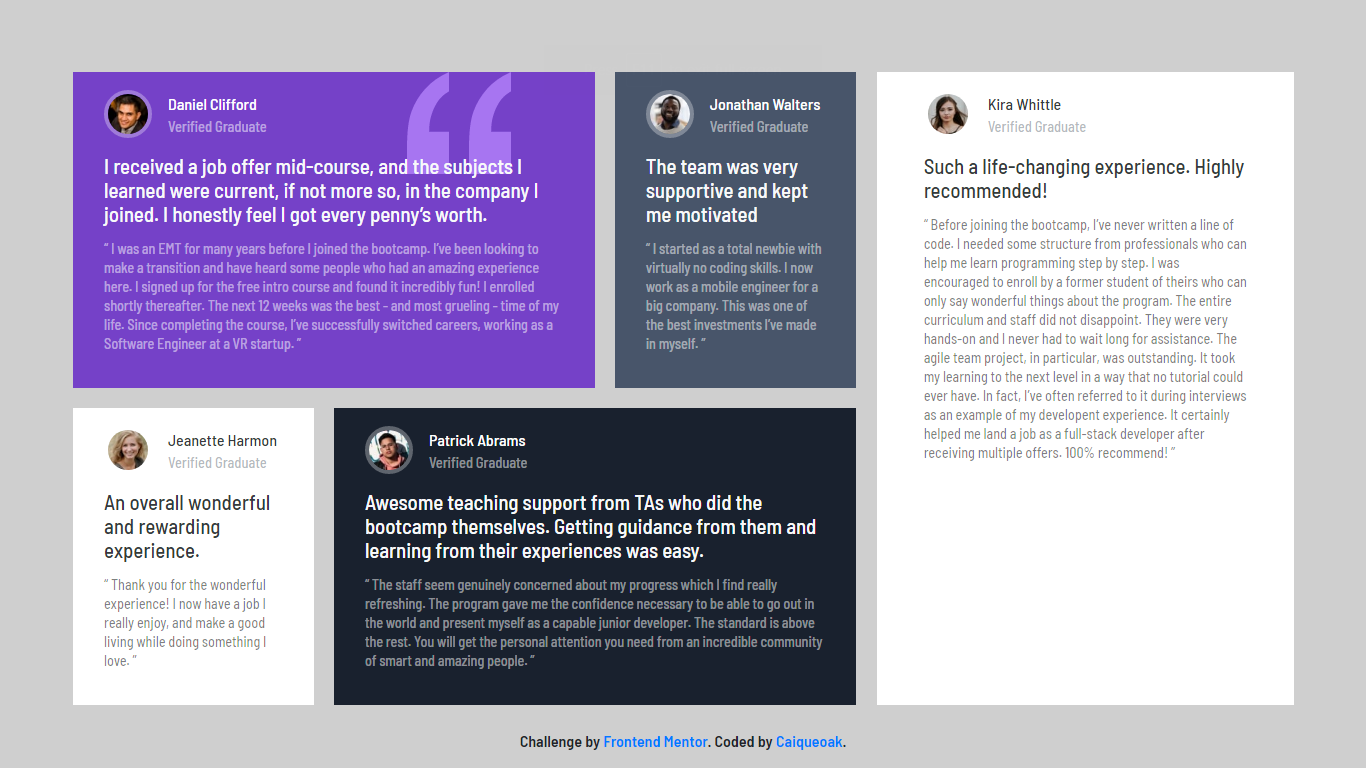
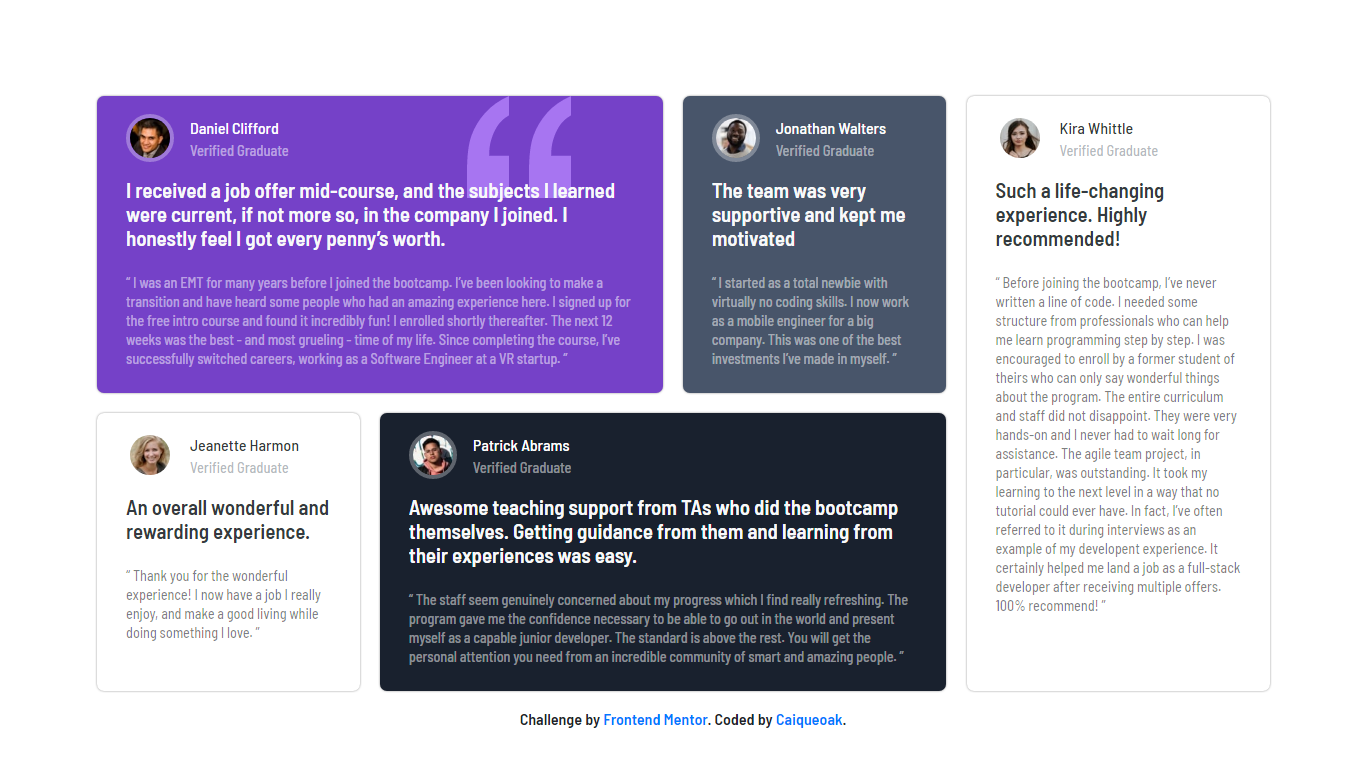
finished

diff --git a/sass/main.scss b/sass/main.scss
@@ -2,7 +2,7 @@
 
 body {
   height: 100vh;
-  background-color: $Light-grayish-blue;
+  background-color: white;
 }
 body::-webkit-scrollbar {
   display: none;

diff --git a/css/main.css b/css/main.css
@@ -14,7 +14,7 @@ body {
 
 body {
   height: 100vh;
-  background-color: #ecf2f8;
+  background-color: white;
 }
 
 body::-webkit-scrollbar {
